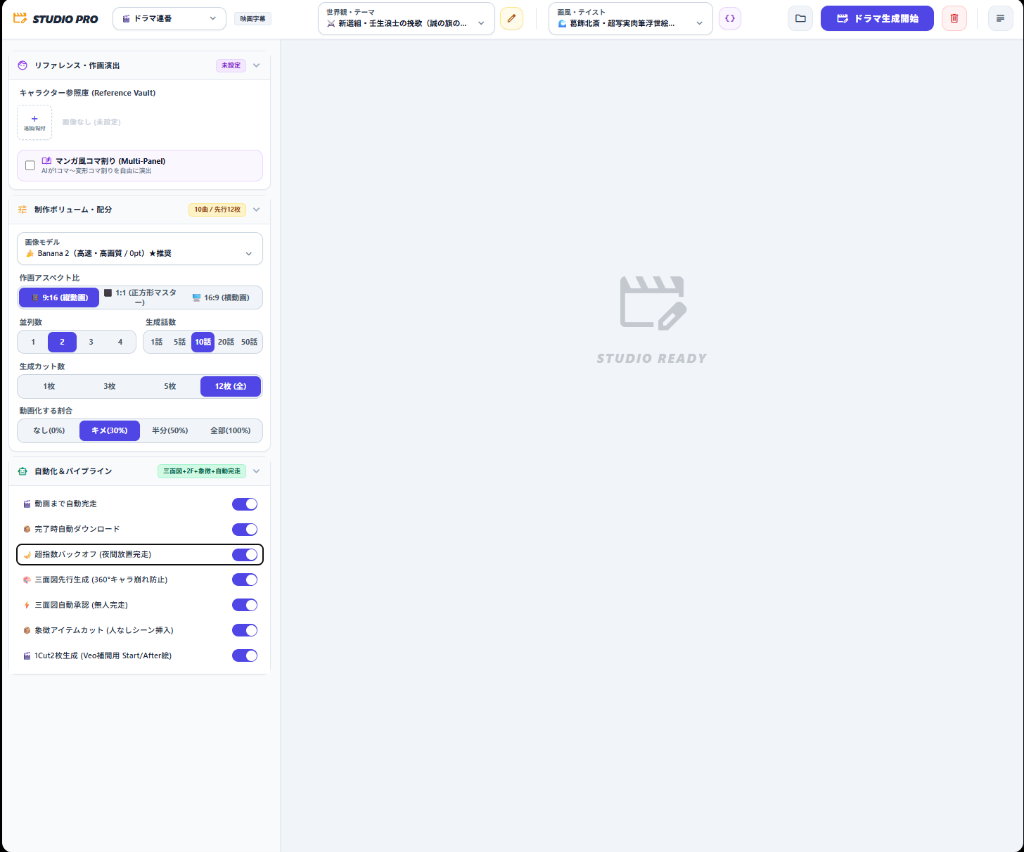
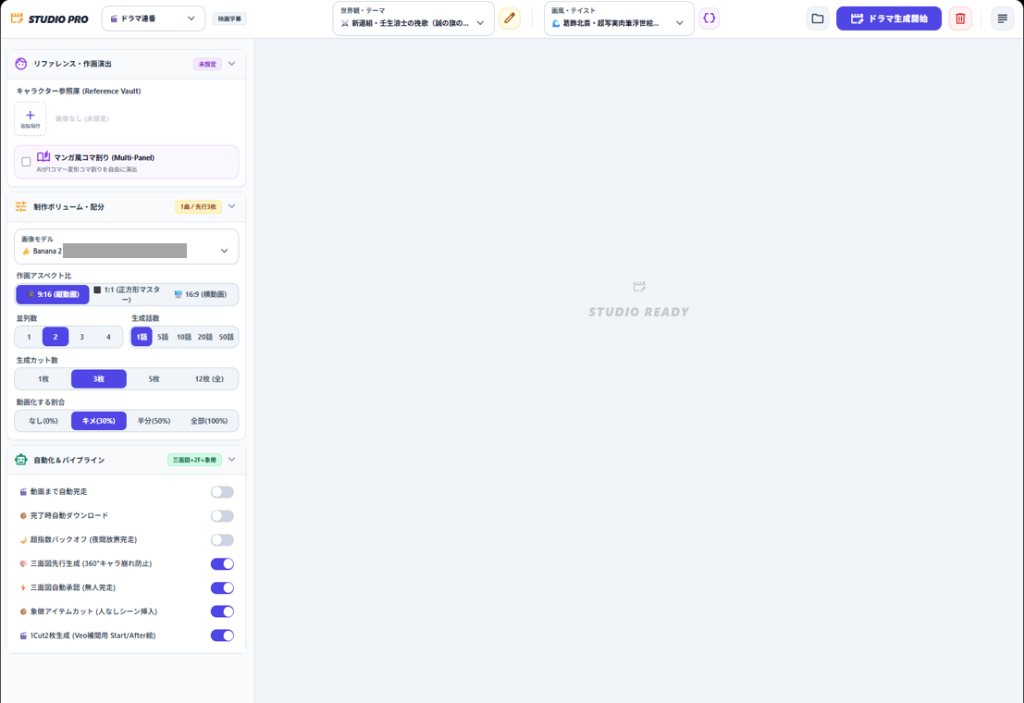
docs: replace Stage 1 image with masked clean image (conceal 0pt)

diff --git a/docs/articles/200_video_pipeline_qiita.md b/docs/articles/200_video_pipeline_qiita.md
@@ -152,12 +152,12 @@ export async function runAutonomousVideoPipeline(config: PipelineConfig): Promis
 🤖 企画エージェント ───[ 演出意図・フック考案 ]───▶ 🏭 メイン量産幹線 ───[ 推論リクエスト ]───▶ ☁ Gemini Flash
 ```
 
-<img src="../qiita_assets/06_shinsengumi_board_flow.png" alt="12カット並列オーケストレーション：『豪雨の宿命・壬生の夜に哭く誠の刃』全カットのキャラ崩れゼロ連続性" style="max-width: 100% !important; height: auto !important; display: block; margin: 2.5rem auto; border-radius: 8px; box-shadow: 0 4px 12px rgba(0,0,0,0.15);">
+<img src="../qiita_assets/06_shinsengumi_board_flow.png" alt="STUDIO PRO 制作ボリューム・配分と自動化パイプライン設定：『新選組・壬生浪士の挽歌』×『葛飾北斎・超写実肉筆浮世絵』" style="max-width: 100% !important; height: auto !important; display: block; margin: 2.5rem auto; border-radius: 8px; box-shadow: 0 4px 12px rgba(0,0,0,0.15);">
 
 * **🏭 パイプライン幹線（処理内容）**:
   選定されたテーマから、12カット構成の起承転結シナリオ、冒頭2秒のフック演出、各カットのナレーション原稿、金文字強調キーワード抽出、および絵コンテ演出意図を含む構造化JSONスキーマを自律生成します。
   
-  上図は、実際にGemini Flashによって一瞬で生成された第1話**『豪雨の宿命・壬生の夜に哭く誠の刃（FATEFUL TORRENT: THE MIDNIGHT BLADE OF MIBU）』**の12カットオーケストレーション画面です。
+  STUDIO PRO上でパイプライン制御トグルと制作ボリュームを設定し生成を開始すると、Gemini Flashによって一瞬で以下の12カット構成データ（第1話**『豪雨の宿命・壬生の夜に哭く誠の刃（FATEFUL TORRENT: THE MIDNIGHT BLADE OF MIBU）』**）が自律生成されます。
 
 #### 💡 実際に自律生成された12カット構造化JSONスキーマ実例
 ```json
